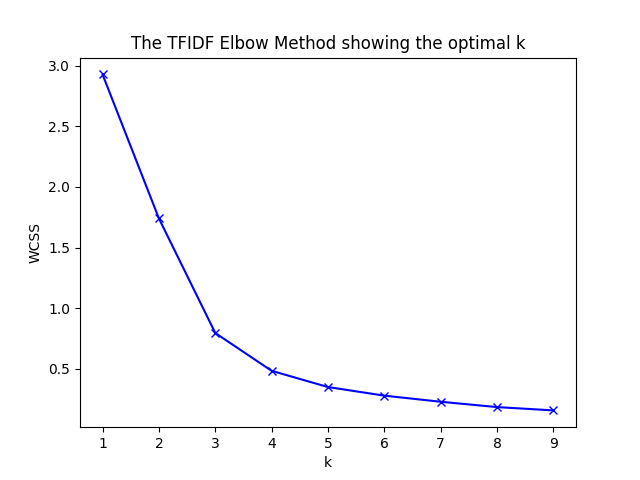
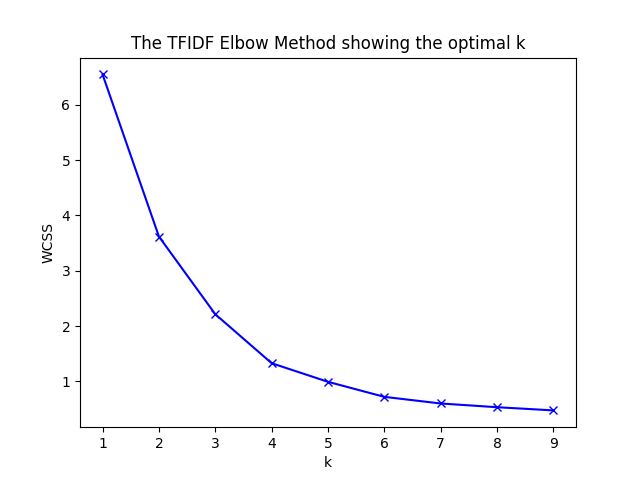
Fixed Problems in Google Stock and Text Analysis

diff --git a/text_analysis.py b/text_analysis.py
@@ -20,6 +20,7 @@ import string
 from nltk.util import ngrams
 import random
 from collections import Counter
+from sklearn.metrics import homogeneity_score,v_measure_score
 nltk.download('averaged_perceptron_tagger')
 matplotlib.use('agg')
 
@@ -58,17 +59,17 @@ def preprocess(x,n_grams,lower_case=True,punctuation=True,numbers=True,unicode=T
             chunked = chunkParser.parse(tagged)
             #chunked.draw()
             #print(chunked)
-            n_gram_done = ngrams(chunked, n_grams)
+            n_gram_done = ngrams(tagged, n_grams)
             #rint(n_grams, ' ARE: '+ [' '.join(grams) for grams in n_gram_done])
             return tagged,chunked,n_gram_done
         
         return description
 
-directory = '20news-19997/20_newsgroups'
+directory = 'Datasets/20news-19997/20_newsgroups'
 
 #PREPROCESSING
 for topic in random.sample(os.listdir(directory),3):
-    sub_dir = '20news-19997/20_newsgroups/'+topic
+    sub_dir = directory+'/'+topic
     file_name = random.sample(os.listdir(sub_dir),1)[0]
     with open(sub_dir+'/'+file_name) as f:
         content = f.read().replace('\n', '')
@@ -101,41 +102,54 @@ def print_elbow(data,vec_type,fig_count):
         #distortions.append(sum(np.min(cdist(vec_df, kmeanModel.cluster_centers_, 'euclidean'), axis=1)) / vec_df.shape[0])
         wcss.append(kmeanModel.inertia_)
 
-    print(wcss)
     plt.figure(fig_count)
     plt.plot(K, wcss, 'bx-')
     plt.xlabel('k')
     plt.ylabel('WCSS')
     plt.title('The '+vec_type+' Elbow Method showing the optimal k')
-    plt.savefig('Elbow KMeans '+vec_type)
+    plt.savefig('Plots and Imaging/Elbow KMeans '+vec_type)
 
 
-def visualize(data,vec_type,fig_count):
+def visualize(data,vec_type,fig_count,labels_true):
     kmeans = KMeans(n_clusters=3)
     kmeans.fit(data)
     preds = kmeans.predict(data)
-
+    print(vec_type+' Homogenity Score: ',homogeneity_score(labels_true,preds))
+    print(vec_type+' V Score: ',v_measure_score(labels_true,preds))
     colmap = {0:'r',1:'b',2:'g',3:'k',4:'y'}
     label_color = [colmap[l] for l in preds]
     plt.figure(fig_count)
     plt.scatter(data['X'],data['Y'],c = label_color)
-    plt.savefig('NEWSGROUPS '+vec_type+' K MEANS PLOT')
+    plt.savefig('Plots and Imaging/NEWSGROUPS '+vec_type+' K MEANS PLOT')
 
 #PREPROCESSING BEFORE CLUSTERING
-train_data = []
-for topic in random.sample(os.listdir(directory),5):
-    sub_dir = '20news-19997/20_newsgroups/'+topic
-    for filename in random.sample(os.listdir(sub_dir),10):
-        with open(sub_dir+'/'+filename) as f:
-            content = f.read().replace('\n','')
+train_data=[]
+labels_true=[]
+i=0
+for topic in random.sample(os.listdir(directory),3):
+    sub_dir = 'Datasets/20news-19997/20_newsgroups/'+topic
+    k = 100
+    for filename in os.listdir(sub_dir):
+        if k==0:
+            break
+        try:
+            with open(sub_dir+'/'+filename) as f:
+                content = f.read().replace('\n','')
+        except:
+            continue
         train_data.append(content)
+        labels_true.append(i)
+        k-=1
+
+    i+=1
+
 
 train_data_processed = []
 for data in train_data:
     train_data_processed.append(preprocess(data,n_grams=2,not_cluster=False))
 
 
-print('*****************DOC2VEC METHOD******************************')
+print('*********************DOC2VEC METHOD******************************')
 VEC_TYPE = 'DOC2VEC'
 
 tagged_data = [TaggedDocument(words=word_tokenize(_d), tags=[str(i)]) for i, _d in enumerate(train_data_processed)]
@@ -144,6 +158,7 @@ max_epochs = 30
 vec_size = 100
 alpha = 0.025
 
+print("BUILDNG DOC2VEC MODEL")
 model = Doc2Vec(size=vec_size,
                 alpha=alpha, 
                 min_alpha=0.00025,
@@ -167,8 +182,8 @@ for doc in tagged_data:
     vec = model.docvecs[doc[1][0]]
     vecs.append(vec)
     
-
 vec_df = pd.DataFrame(vecs)
+print("DOC2VEC MODEL COMPLETE")
 
 #Dimensionality reduction
 pca = PCA(n_components=2)
@@ -177,7 +192,7 @@ principalDf = pd.DataFrame(data = principalComponents
              , columns = ['X', 'Y'])
 
 print_elbow(principalDf,VEC_TYPE,1)
-visualize(principalDf,VEC_TYPE,2)
+visualize(principalDf,VEC_TYPE,2,labels_true)
 
 print('*****************TFIDF METHOD******************************')
 VEC_TYPE = 'TFIDF'
@@ -191,4 +206,4 @@ principalDf1 = pd.DataFrame(train_PCA,columns = ['X','Y'])
 
 
 print_elbow(principalDf1,VEC_TYPE,3)
-visualize(principalDf1,VEC_TYPE,4)
+visualize(principalDf1,VEC_TYPE,4,labels_true)

diff --git a/google_stock_neural_net.py b/google_stock_neural_net.py
@@ -17,10 +17,12 @@ from sklearn.preprocessing import MinMaxScaler
 from sklearn.model_selection import train_test_split as tts
 from tqdm import tqdm_notebook
 import os
+from sklearn.externals import joblib
+import pickle
 import matplotlib.pyplot as plt
 
-train_data = pd.read_csv('Google_Stock_Price_Train.csv')
-test_data = pd.read_csv('Google_Stock_Price_Test.csv')
+train_data = pd.read_csv('Datasets/Google_Stock_Price_Train.csv')
+test_data = pd.read_csv('Datasets/Google_Stock_Price_Test.csv')
 test_data
 
 def process(data):
@@ -52,12 +54,14 @@ def process(data):
     x = data.loc[:,train_cols].values
     sc = MinMaxScaler(feature_range = (0, 1))
     x_train = sc.fit_transform(x)
-    return pd.DataFrame(x_train)
+    scalerfile = 'scaler.sav'
+    pickle.dump(sc, open(scalerfile, 'wb'))
+    return x_train
 
-train = process(train_data)
-test = process(test_data)
+x_train = process(train_data)
+x_test = process(test_data)
 
-TIME_STEPS = 3
+TIME_STEPS = 2
 BATCH_SIZE = 4
 def build_timeseries(mat, y_col_index):
     # y_col_index is the index of column that would act as output column
@@ -66,9 +70,10 @@ def build_timeseries(mat, y_col_index):
     dim_1 = mat.shape[1]
     x = np.zeros((dim_0, TIME_STEPS, dim_1))
     y = np.zeros((dim_0,))
-    
-    for i in tqdm_notebook(range(dim_0)):
+
+    for i in range(dim_0):
         x[i] = mat[i:TIME_STEPS+i]
+
         y[i] = mat[TIME_STEPS+i, y_col_index]
     print("length of time-series i/o",x.shape,y.shape)
     return x, y
@@ -123,6 +128,8 @@ predicted_stock_price
 x_test_df = pd.DataFrame(x_test[0:16])
 real_stock_price = x_test_df[3]
 
+scalerfile = 'scaler.sav'
+sc= pickle.load(open(scalerfile, 'rb'))
 pred_org = (predicted_stock_price*sc.data_range_[3])+sc.data_min_[3]
 actual_org = (real_stock_price*sc.data_range_[3])+sc.data_min_[3]
 pred_org
